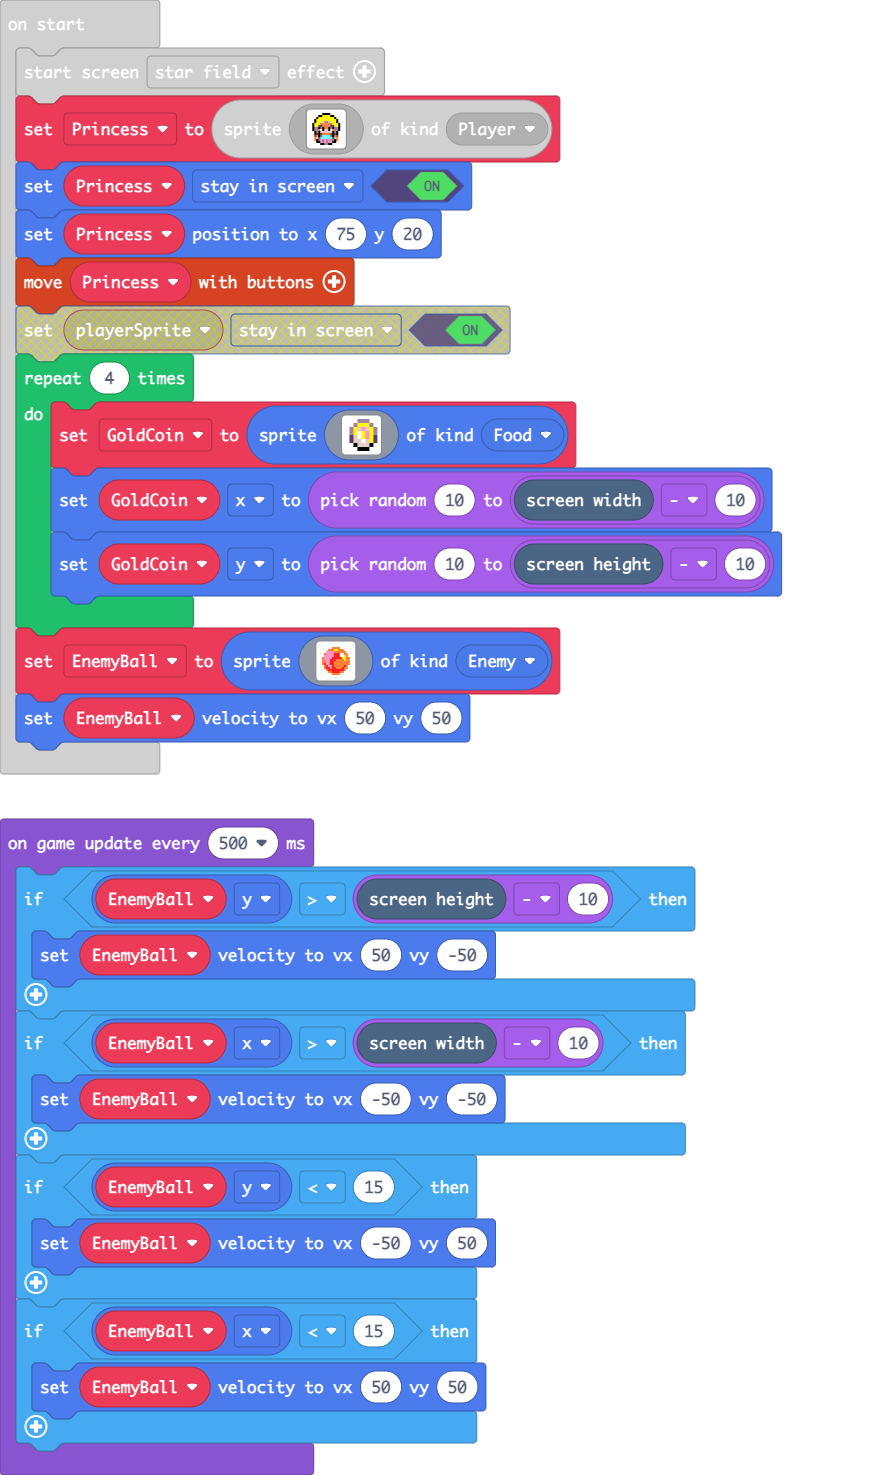
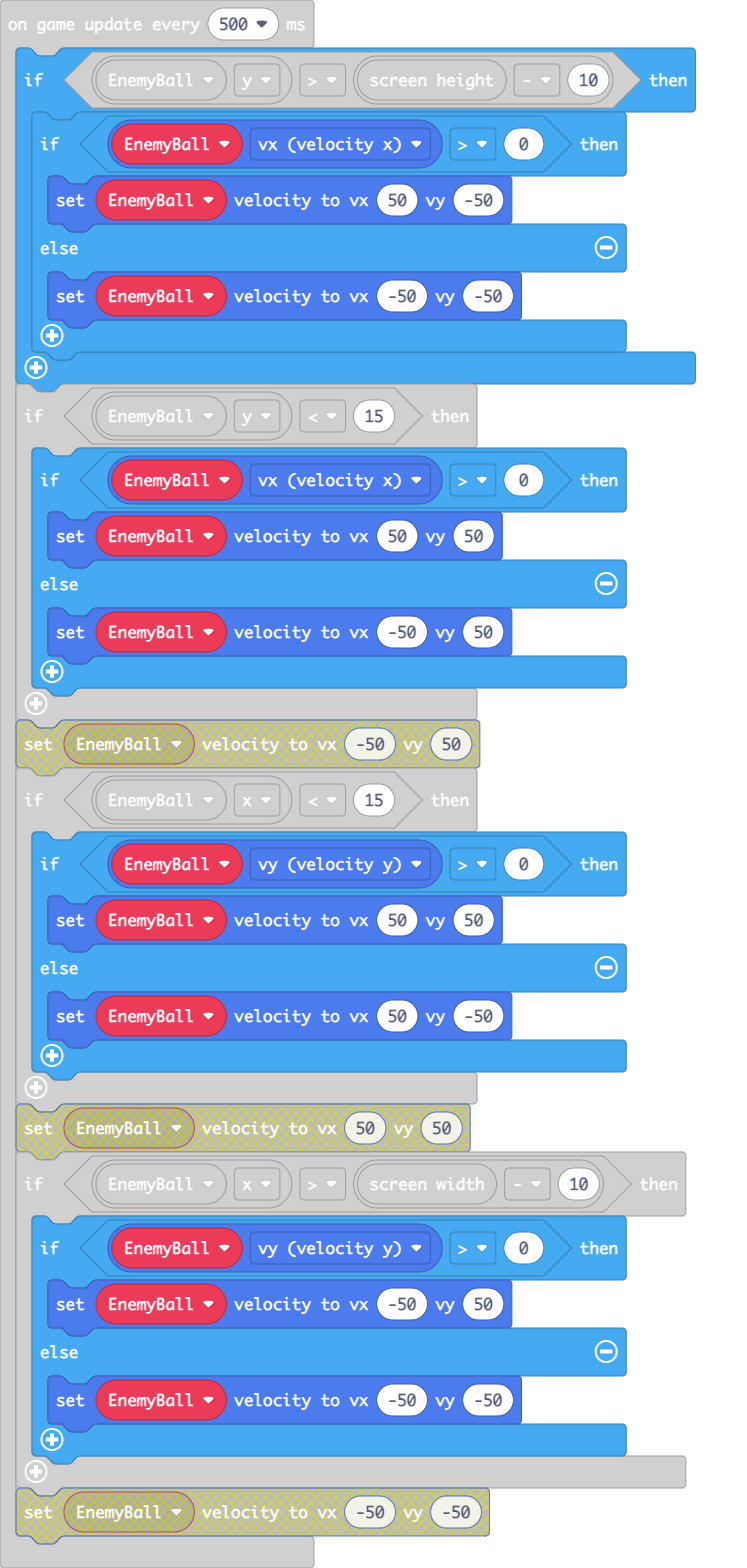
Fix enemy ball path

diff --git a/main.ts b/main.ts
@@ -56,15 +56,31 @@ let EnemyBall = sprites.create(img`
 EnemyBall.setVelocity(50, 50)
 game.onUpdateInterval(500, function () {
     if (EnemyBall.y > scene.screenHeight() - 10) {
-        EnemyBall.setVelocity(50, -50)
-    }
-    if (EnemyBall.x > scene.screenWidth() - 10) {
-        EnemyBall.setVelocity(-50, -50)
+        if (EnemyBall.vx > 0) {
+            EnemyBall.setVelocity(50, -50)
+        } else {
+            EnemyBall.setVelocity(-50, -50)
+        }
     }
     if (EnemyBall.y < 15) {
-        EnemyBall.setVelocity(-50, 50)
+        if (EnemyBall.vx > 0) {
+            EnemyBall.setVelocity(50, 50)
+        } else {
+            EnemyBall.setVelocity(-50, 50)
+        }
     }
     if (EnemyBall.x < 15) {
-        EnemyBall.setVelocity(50, 50)
+        if (EnemyBall.vy > 0) {
+            EnemyBall.setVelocity(50, 50)
+        } else {
+            EnemyBall.setVelocity(50, -50)
+        }
+    }
+    if (EnemyBall.x > scene.screenWidth() - 10) {
+        if (EnemyBall.vy > 0) {
+            EnemyBall.setVelocity(-50, 50)
+        } else {
+            EnemyBall.setVelocity(-50, -50)
+        }
     }
 })
